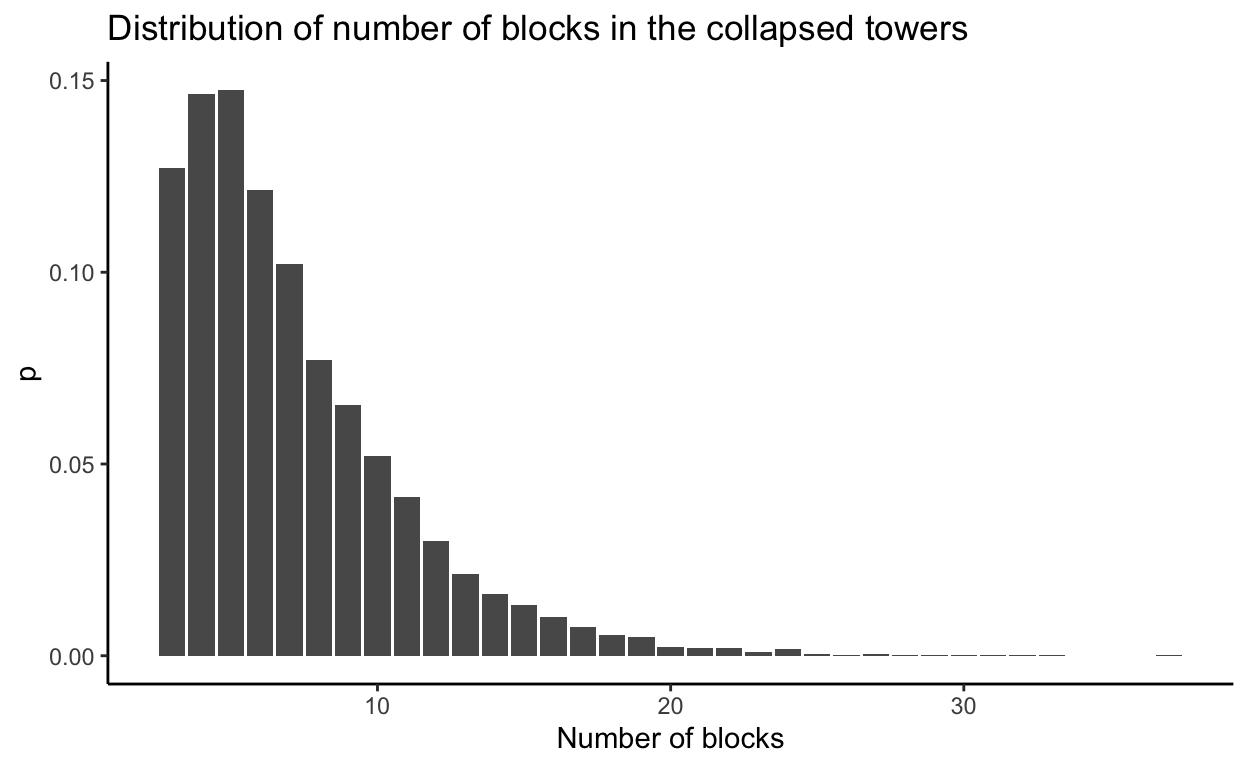
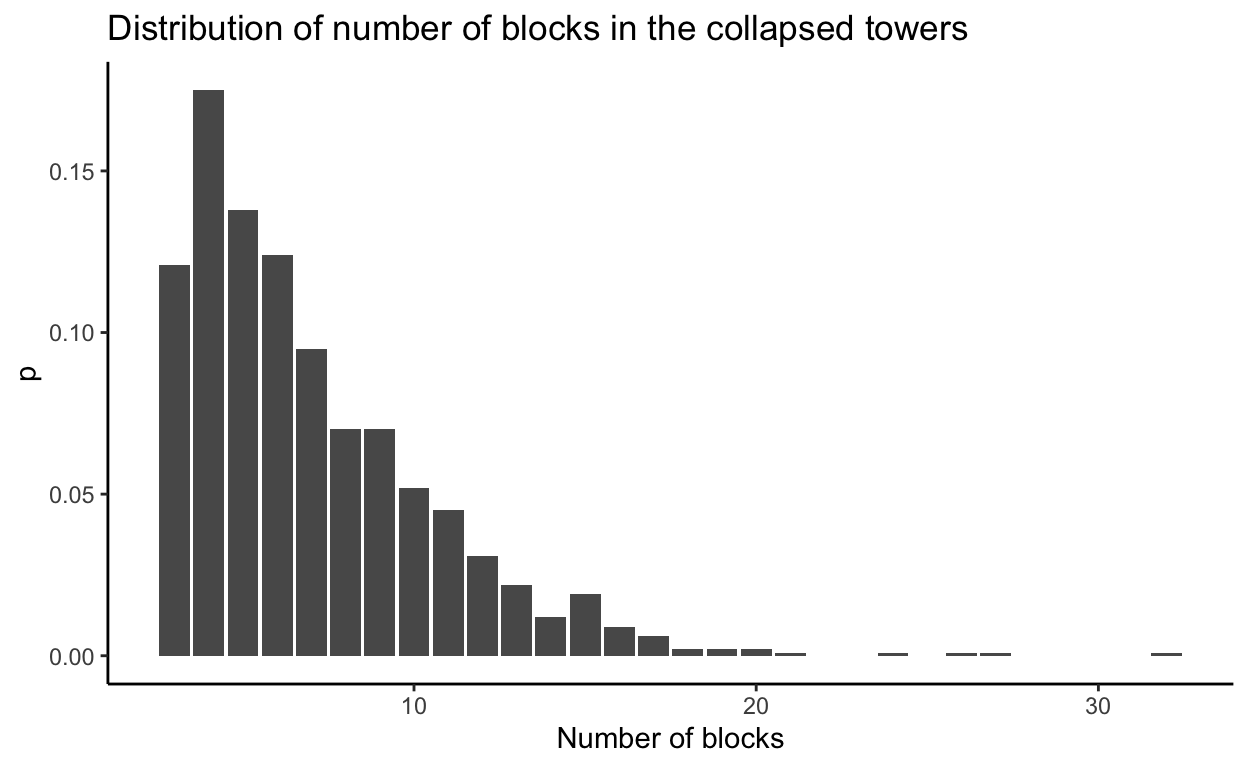
polish until code

diff --git a/_posts/riddler-jenga/jenga-tower.html b/_posts/riddler-jenga/jenga-tower.html
@@ -1482,30 +1482,35 @@ code span.wa { color: #5e5e5e; font-style: italic; } /* Warning */
 </div>
 
 <div class="d-article">
-<p>This weekend I solved the Jenga problem from <a href="https://fivethirtyeight.com/tag/the-riddler/">The Riddler</a>. In this post, I described my solution. But first, the riddle:</p>
+<p>This weekend I solved the Jenga problem from <a href="https://fivethirtyeight.com/tag/the-riddler/">The Riddler</a>. In this post, I describe my solution. But first, the riddle:</p>
 <blockquote>
 <p>In the game of Jenga, you build a tower and then remove its blocks, one at a time, until the tower collapses. But in Riddler Jenga, you start with one block and then place more blocks on top of it, one at a time.</p>
 <p>All the blocks have the same alignment (e.g., east-west). Importantly, whenever you place a block, its center is picked randomly along the block directly beneath it.</p>
 <p>On average, how many blocks must you place so that your tower collapses — that is, until at least one block falls off?</p>
 </blockquote>
-<p>For details, <a href="https://fivethirtyeight.com/features/can-you-win-riddler-jenga/">visit Riddler’s official page</a>.</p>
-<h1 id="solution">Solution</h1>
-<p>Let’s say we have Jenga tower (as on the sketch) and want to calculate whether it’s stable.</p>
-<p><img src="../../images/jenga/jenga_tower.png" /></p>
-<p>But - what happens when the tower is not stable? It crashes. Why, how? Because - we can borrow this from physics - sum of forces <span class="math inline">\(F_i\)</span> or torques <span class="math inline">\(\tau_i\)</span> doesn’t equal 0. So conditions for the Jenga tower to be stable are these: <span class="math display">\[
+<p>For additional explanation, <a href="https://fivethirtyeight.com/features/can-you-win-riddler-jenga/">visit Riddler’s official page</a>.</p>
+<h1 id="why-does-the-tower-collapse">Why does the tower collapse?</h1>
+<p>Let’s say we have the Jenga tower (as on the sketch) and want to calculate whether it’s stable.</p>
+<figure>
+<img src="../../images/jenga/jenga_tower.png" alt="The Jenga tower with marked forces of gravity on blocks’ centers and potential axes of rotation." /><figcaption aria-hidden="true">The Jenga tower with marked forces of gravity on blocks’ centers and potential axes of rotation.</figcaption>
+</figure>
+<p>When the tower is stable, sum of forces and torques acting on it equals zero: <span class="math display">\[
 \sum F_i = 0  
 \]</span> <span class="math display">\[
 \sum \tau_i = 0
 \]</span></p>
-<p>Forces are not problematic: only forces of gravity act on the blocks (you can see them on the sketch) in their centers. But they get (or at least could be) neutralized by the opposite force of the blocks below and table.</p>
-<p>Falling Jenga tower actually <em>rotates</em>, not drops. The problem is torque. Potential axes of rotations are blocks’ edges.<a href="#fn1" class="footnote-ref" id="fnref1" role="doc-noteref"><sup>1</sup></a> They are marked with <span class="math inline">\(\times\)</span> on the sketch. Sum of torques has to be 0 for each of these axes. Torque is defined as: <span class="math display">\[
+<p>The tower collapses when one of these equations is not fulfilled. Forces are not problematic: only forces of gravity act on the blocks (you can see them on the sketch) in their centers. But they get neutralized by the opposite force of the blocks below and table.</p>
+<p>The collapsing Jenga tower <em>rotates</em>, not drops. The problem is imbalanced torque. Potential axes of rotations are edges pf the blocks.<a href="#fn1" class="footnote-ref" id="fnref1" role="doc-noteref"><sup>1</sup></a> They are marked with <span class="math inline">\(\times\)</span> on the sketch. The sum of torques has to be 0 for each of these axes. Torque is defined as: <span class="math display">\[
 \tau = F \cdot r \cdot sin\theta
 \]</span> where <span class="math inline">\(\tau\)</span> is torque, <span class="math inline">\(r\)</span> moment arm, <span class="math inline">\(F\)</span> applied force, and <span class="math inline">\(\theta\)</span> the angle between the force vector and the lever arm vector.<a href="#fn2" class="footnote-ref" id="fnref2" role="doc-noteref"><sup>2</sup></a></p>
-<p><img src="../../images/jenga/door_torque.png" /></p>
-<p>To better understand torque, look at the sketch above. It represents door from above. Someone wants to open them by applying the force at the door handle. Torque is applied on the door hinges.</p>
-<p>The same way we can calculate (sum of) torques on all blocks’ edges. The situation is simpler: we only care that gravity center of any block (or multiple blocks together) is on lateral side of the tower. This can’t be compensated by the opposite torque (it’s just air resistance) so the tower collapses. Gravity center of the multiple blocks is average the average of their center positions.</p>
-<h1 id="applied-solution">Applied solution</h1>
-<p>Now to the code. We assume each block has uniformly distributed mass and it’s 1 unit long. Each time we add block its center is picked randomly along the block beneath it. Function <code>calc_next_block_center</code> does that.</p>
+<figure>
+<img src="../../images/jenga/door_torque.png" alt="The sketch represents the door from above and torque applied to the door hinges when someone wants to open the door." /><figcaption aria-hidden="true">The sketch represents the door from above and torque applied to the door hinges when someone wants to open the door.</figcaption>
+</figure>
+<p>To better understand torque, look at the sketch above. It represents the door from above. Someone wants to open them by applying force at the door handle. Torque is applied on the door hinges and can be calculated by the equation above.</p>
+<p>In the same way we can calculate (sum of) torques on all blocks’ edges. The situation is even simpler: we only care that the gravity center of any block (or multiple blocks together) is on lateral side (farther from the tower’s center) compared to the edge of some brick (potential axis of rotation). This torque can’t be compensated (there’s nothing on the other side, just air resistance) so the tower collapses.</p>
+<p>On the Jenga tower sketch, circled <span class="math inline">\(\times\)</span> marks the axis around which the tower rotates when collapses. The center of gravity of the top 2 blocks is more to the left compared to the axis of rotation.</p>
+<h1 id="enough-theory-lets-code">Enough theory, let’s code</h1>
+<p>We assume each block has uniformly distributed mass and it’s 1 unit long. Each time we add block its center is picked randomly along the block beneath it. Function <code>calc_next_block_center</code> does that.</p>
 <div class="layout-chunk" data-layout="l-body">
 <div class="sourceCode">
 <pre class="sourceCode r"><code class="sourceCode r"><span class='va'>calc_next_block_center</span> <span class='op'>&lt;-</span> <span class='kw'>function</span><span class='op'>(</span><span class='va'>previous_block_center</span><span class='op'>)</span> <span class='op'>{</span>
@@ -1562,12 +1567,12 @@ We always start building the tower with a block that has center at position 0. T
 <p>Then we just simulate building of thousands of Jenga towers and calculate mean number of blocks in the collapsed towers.</p>
 <div class="layout-chunk" data-layout="l-body">
 <div class="sourceCode">
-<pre class="sourceCode r"><code class="sourceCode r"><span class='va'>tower_heights</span> <span class='op'>&lt;-</span> <span class='fu'>purrr</span><span class='fu'>::</span><span class='fu'><a href='https://purrr.tidyverse.org/reference/map.html'>map_int</a></span><span class='op'>(</span><span class='fl'>1</span><span class='op'>:</span><span class='fl'>1e4</span>, <span class='va'>get_tower_top_level</span><span class='op'>)</span>
+<pre class="sourceCode r"><code class="sourceCode r"><span class='va'>tower_heights</span> <span class='op'>&lt;-</span> <span class='fu'>purrr</span><span class='fu'>::</span><span class='fu'><a href='https://purrr.tidyverse.org/reference/map.html'>map_int</a></span><span class='op'>(</span><span class='fl'>1</span><span class='op'>:</span><span class='fl'>1e3</span>, <span class='va'>get_tower_top_level</span><span class='op'>)</span>
 
 <span class='fu'><a href='https://rdrr.io/r/base/mean.html'>mean</a></span><span class='op'>(</span><span class='va'>tower_heights</span><span class='op'>)</span>
 </code></pre>
 </div>
-<pre><code>[1] 7.1205</code></pre>
+<pre><code>[1] 6.968</code></pre>
 </div>
 <p>We can plot the distribution:</p>
 <div class="layout-chunk" data-layout="l-body">
@@ -1578,7 +1583,7 @@ We always start building the tower with a block that has center at position 0. T
 <section class="footnotes" role="doc-endnotes">
 <hr />
 <ol>
-<li id="fn1" role="doc-endnote"><p>It could also be block center but you need huge force to break it.<a href="#fnref1" class="footnote-back" role="doc-backlink">↩</a></p></li>
+<li id="fn1" role="doc-endnote"><p>It could also be the block’s center but you need huge force/torque to break the block.<a href="#fnref1" class="footnote-back" role="doc-backlink">↩</a></p></li>
 <li id="fn2" role="doc-endnote"><p>Note that a <span class="math inline">\(\tau\)</span>, <span class="math inline">\(F\)</span>, and <span class="math inline">\(r\)</span> are in reality vectors bet here we are interested only in their magnitudes.<a href="#fnref2" class="footnote-back" role="doc-backlink">↩</a></p></li>
 </ol>
 </section>

diff --git a/_site/posts/riddler-jenga/index.html b/_site/posts/riddler-jenga/index.html
@@ -1886,30 +1886,35 @@ document.addEventListener('DOMContentLoaded', function() {
 </div>
 
 <div class="d-article">
-<p>This weekend I solved the Jenga problem from <a href="https://fivethirtyeight.com/tag/the-riddler/">The Riddler</a>. In this post, I described my solution. But first, the riddle:</p>
+<p>This weekend I solved the Jenga problem from <a href="https://fivethirtyeight.com/tag/the-riddler/">The Riddler</a>. In this post, I describe my solution. But first, the riddle:</p>
 <blockquote>
 <p>In the game of Jenga, you build a tower and then remove its blocks, one at a time, until the tower collapses. But in Riddler Jenga, you start with one block and then place more blocks on top of it, one at a time.</p>
 <p>All the blocks have the same alignment (e.g., east-west). Importantly, whenever you place a block, its center is picked randomly along the block directly beneath it.</p>
 <p>On average, how many blocks must you place so that your tower collapses — that is, until at least one block falls off?</p>
 </blockquote>
-<p>For details, <a href="https://fivethirtyeight.com/features/can-you-win-riddler-jenga/">visit Riddler’s official page</a>.</p>
-<h1 id="solution">Solution</h1>
-<p>Let’s say we have Jenga tower (as on the sketch) and want to calculate whether it’s stable.</p>
-<p><img src="../../images/jenga/jenga_tower.png" /></p>
-<p>But - what happens when the tower is not stable? It crashes. Why, how? Because - we can borrow this from physics - sum of forces <span class="math inline">\(F_i\)</span> or torques <span class="math inline">\(\tau_i\)</span> doesn’t equal 0. So conditions for the Jenga tower to be stable are these: <span class="math display">\[
+<p>For additional explanation, <a href="https://fivethirtyeight.com/features/can-you-win-riddler-jenga/">visit Riddler’s official page</a>.</p>
+<h1 id="why-does-the-tower-collapse">Why does the tower collapse?</h1>
+<p>Let’s say we have the Jenga tower (as on the sketch) and want to calculate whether it’s stable.</p>
+<figure>
+<img src="../../images/jenga/jenga_tower.png" alt="The Jenga tower with marked forces of gravity on blocks’ centers and potential axes of rotation." /><figcaption aria-hidden="true">The Jenga tower with marked forces of gravity on blocks’ centers and potential axes of rotation.</figcaption>
+</figure>
+<p>When the tower is stable, sum of forces and torques acting on it equals zero: <span class="math display">\[
 \sum F_i = 0  
 \]</span> <span class="math display">\[
 \sum \tau_i = 0
 \]</span></p>
-<p>Forces are not problematic: only forces of gravity act on the blocks (you can see them on the sketch) in their centers. But they get (or at least could be) neutralized by the opposite force of the blocks below and table.</p>
-<p>Falling Jenga tower actually <em>rotates</em>, not drops. The problem is torque. Potential axes of rotations are blocks’ edges.<a href="#fn1" class="footnote-ref" id="fnref1" role="doc-noteref"><sup>1</sup></a> They are marked with <span class="math inline">\(\times\)</span> on the sketch. Sum of torques has to be 0 for each of these axes. Torque is defined as: <span class="math display">\[
+<p>The tower collapses when one of these equations is not fulfilled. Forces are not problematic: only forces of gravity act on the blocks (you can see them on the sketch) in their centers. But they get neutralized by the opposite force of the blocks below and table.</p>
+<p>The collapsing Jenga tower <em>rotates</em>, not drops. The problem is imbalanced torque. Potential axes of rotations are edges pf the blocks.<a href="#fn1" class="footnote-ref" id="fnref1" role="doc-noteref"><sup>1</sup></a> They are marked with <span class="math inline">\(\times\)</span> on the sketch. The sum of torques has to be 0 for each of these axes. Torque is defined as: <span class="math display">\[
 \tau = F \cdot r \cdot sin\theta
 \]</span> where <span class="math inline">\(\tau\)</span> is torque, <span class="math inline">\(r\)</span> moment arm, <span class="math inline">\(F\)</span> applied force, and <span class="math inline">\(\theta\)</span> the angle between the force vector and the lever arm vector.<a href="#fn2" class="footnote-ref" id="fnref2" role="doc-noteref"><sup>2</sup></a></p>
-<p><img src="../../images/jenga/door_torque.png" /></p>
-<p>To better understand torque, look at the sketch above. It represents door from above. Someone wants to open them by applying the force at the door handle. Torque is applied on the door hinges.</p>
-<p>The same way we can calculate (sum of) torques on all blocks’ edges. The situation is simpler: we only care that gravity center of any block (or multiple blocks together) is on lateral side of the tower. This can’t be compensated by the opposite torque (it’s just air resistance) so the tower collapses. Gravity center of the multiple blocks is average the average of their center positions.</p>
-<h1 id="applied-solution">Applied solution</h1>
-<p>Now to the code. We assume each block has uniformly distributed mass and it’s 1 unit long. Each time we add block its center is picked randomly along the block beneath it. Function <code>calc_next_block_center</code> does that.</p>
+<figure>
+<img src="../../images/jenga/door_torque.png" alt="The sketch represents the door from above and torque applied to the door hinges when someone wants to open the door." /><figcaption aria-hidden="true">The sketch represents the door from above and torque applied to the door hinges when someone wants to open the door.</figcaption>
+</figure>
+<p>To better understand torque, look at the sketch above. It represents the door from above. Someone wants to open them by applying force at the door handle. Torque is applied on the door hinges and can be calculated by the equation above.</p>
+<p>In the same way we can calculate (sum of) torques on all blocks’ edges. The situation is even simpler: we only care that the gravity center of any block (or multiple blocks together) is on lateral side (farther from the tower’s center) compared to the edge of some brick (potential axis of rotation). This torque can’t be compensated (there’s nothing on the other side, just air resistance) so the tower collapses.</p>
+<p>On the Jenga tower sketch, circled <span class="math inline">\(\times\)</span> marks the axis around which the tower rotates when collapses. The center of gravity of the top 2 blocks is more to the left compared to the axis of rotation.</p>
+<h1 id="enough-theory-lets-code">Enough theory, let’s code</h1>
+<p>We assume each block has uniformly distributed mass and it’s 1 unit long. Each time we add block its center is picked randomly along the block beneath it. Function <code>calc_next_block_center</code> does that.</p>
 <div class="layout-chunk" data-layout="l-body">
 <div class="sourceCode">
 <pre class="sourceCode r"><code class="sourceCode r"><span class='va'>calc_next_block_center</span> <span class='op'>&lt;-</span> <span class='kw'>function</span><span class='op'>(</span><span class='va'>previous_block_center</span><span class='op'>)</span> <span class='op'>{</span>
@@ -1966,12 +1971,12 @@ We always start building the tower with a block that has center at position 0. T
 <p>Then we just simulate building of thousands of Jenga towers and calculate mean number of blocks in the collapsed towers.</p>
 <div class="layout-chunk" data-layout="l-body">
 <div class="sourceCode">
-<pre class="sourceCode r"><code class="sourceCode r"><span class='va'>tower_heights</span> <span class='op'>&lt;-</span> <span class='fu'>purrr</span><span class='fu'>::</span><span class='fu'><a href='https://purrr.tidyverse.org/reference/map.html'>map_int</a></span><span class='op'>(</span><span class='fl'>1</span><span class='op'>:</span><span class='fl'>1e4</span>, <span class='va'>get_tower_top_level</span><span class='op'>)</span>
+<pre class="sourceCode r"><code class="sourceCode r"><span class='va'>tower_heights</span> <span class='op'>&lt;-</span> <span class='fu'>purrr</span><span class='fu'>::</span><span class='fu'><a href='https://purrr.tidyverse.org/reference/map.html'>map_int</a></span><span class='op'>(</span><span class='fl'>1</span><span class='op'>:</span><span class='fl'>1e3</span>, <span class='va'>get_tower_top_level</span><span class='op'>)</span>
 
 <span class='fu'><a href='https://rdrr.io/r/base/mean.html'>mean</a></span><span class='op'>(</span><span class='va'>tower_heights</span><span class='op'>)</span>
 </code></pre>
 </div>
-<pre><code>[1] 7.1205</code></pre>
+<pre><code>[1] 6.968</code></pre>
 </div>
 <p>We can plot the distribution:</p>
 <div class="layout-chunk" data-layout="l-body">
@@ -1982,7 +1987,7 @@ We always start building the tower with a block that has center at position 0. T
 <section class="footnotes" role="doc-endnotes">
 <hr />
 <ol>
-<li id="fn1" role="doc-endnote"><p>It could also be block center but you need huge force to break it.<a href="#fnref1" class="footnote-back" role="doc-backlink">↩</a></p></li>
+<li id="fn1" role="doc-endnote"><p>It could also be the block’s center but you need huge force/torque to break the block.<a href="#fnref1" class="footnote-back" role="doc-backlink">↩</a></p></li>
 <li id="fn2" role="doc-endnote"><p>Note that a <span class="math inline">\(\tau\)</span>, <span class="math inline">\(F\)</span>, and <span class="math inline">\(r\)</span> are in reality vectors bet here we are interested only in their magnitudes.<a href="#fnref2" class="footnote-back" role="doc-backlink">↩</a></p></li>
 </ol>
 </section>
